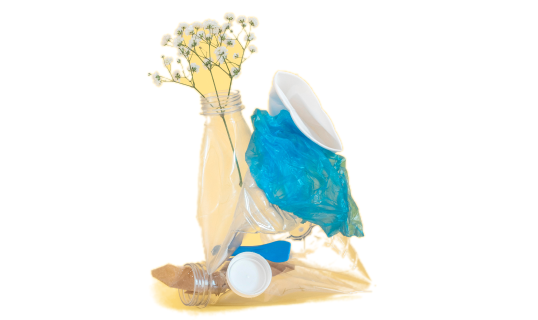
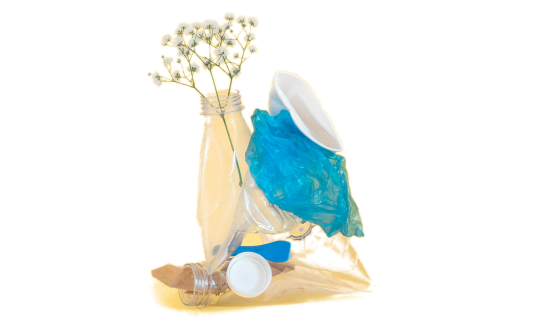
Minor changes: disabled autofocus on first selector on mobile nav, removed url-interceptor logger & modified trash image

Changed region(s): [[0.3271, 0.0938, 0.4758, 0.3125]]

diff --git a/src/app/services/url-interceptor.service.ts b/src/app/services/url-interceptor.service.ts
@@ -4,8 +4,7 @@ import {
 	HttpEvent,
 	HttpHandler,
 	HttpInterceptor,
-	HttpRequest,
-	HttpResponse
+	HttpRequest
 } from '@angular/common/http';
 import { Observable, tap } from 'rxjs';
 import { environment } from '@environments/environment';
@@ -30,10 +29,7 @@ export class UrlInterceptorService implements HttpInterceptor {
 			}),
 		).pipe(
 			tap(
-				(event) => {
-					if (event instanceof HttpResponse)
-						console.log(`Server response ${event.url}`)
-				},
+				null,
 				(err) => {
 					if (err instanceof HttpErrorResponse) {
 						if (err.status == 401)

diff --git a/src/app/components/ui/header/header.component.ts b/src/app/components/ui/header/header.component.ts
@@ -40,7 +40,8 @@ export class HeaderComponent implements OnInit {
 			panelClass: "borderless",
 			data: {
 				nav: this.locations$
-			}
+			},
+			autoFocus: "dialog"
 		});
 	}
 
